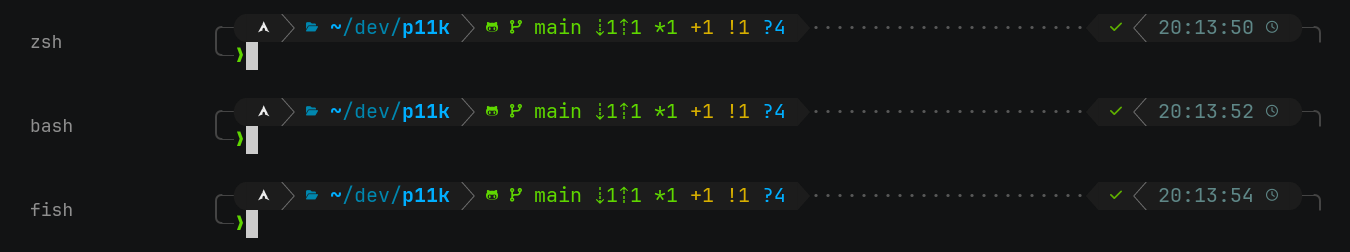
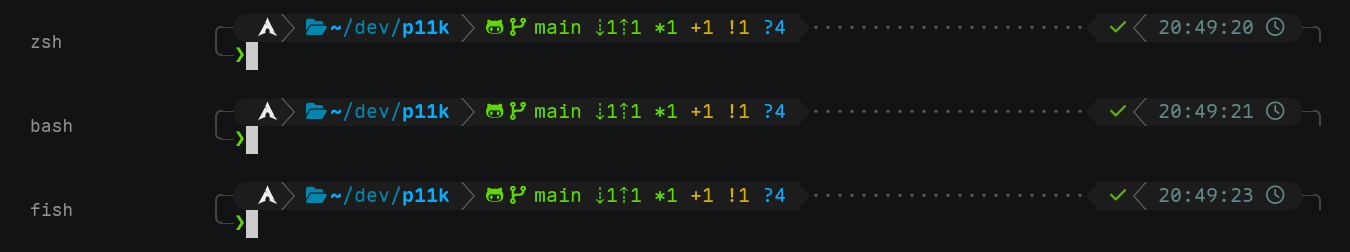
docs: re-record the images with Maple Mono and a passing test run
Three problems with the first recordings, all visible in the images:

- The font was JetBrains Mono NF, which is not what this was recorded on.
  Maple Mono NF it is; the coverage of the glyphs the prompt actually uses
  (⇣ ⇡ ✓ ✘ ❯, the nerd font icons, the box drawing) was checked first.
- The demo ran a failing `cargo test`, which reads as "this project does not
  build" rather than as a prompt demo. The test now passes, and its sleep
  stays: it is what puts the run above the segment's 3s threshold.
- The cold build printed `Compiling ... (/home/<user>/...)` into the
  recording. The demo home moves out of the repository to
  ${TMPDIR:-/tmp}/p11k-demo-home, the build is warmed during setup so the
  run is short, and the scene now runs `cargo test -p p11k-engine` so the
  output is one crate's test summary instead of three.

diff --git a/README.zh.md b/README.zh.md
@@ -4,13 +4,13 @@
 
 用 Rust 重写的 powerlevel10k 提示符引擎。
 
-![p11k 在 zsh 中：git 状态、失败的测试、后台任务、transient prompt](docs/images/demo.gif)
+![p11k 在 zsh 中：git 状态、测试运行、后台任务、transient prompt](docs/images/demo.gif)
 
 一段 zsh 会话，使用 [`tools/demo/demo.kdl`](tools/demo/demo.kdl) 中的主题：
-终端打开时头部已经在屏幕上；`dir` 与 `vcs` 跟随工作区状态；失败的
-`cargo test` 点亮 status 与执行耗时；`sleep 30 &` 点亮后台任务计数；每次提交的
-命令都折叠成单行 `❯`。这些图由
-[`tools/demo/capture.sh`](tools/demo/capture.sh) 录制生成。
+终端打开时头部已经在屏幕上；`dir` 与 `vcs` 跟随工作区状态；`cargo test`
+点亮 status 与执行耗时；`sleep 30 &` 点亮后台任务计数；每次提交的命令都折叠成
+单行 `❯`。这些图由 [`tools/demo/capture.sh`](tools/demo/capture.sh) 录制生成，
+字体为 Maple Mono NF。
 
 p11k 仍在开发中（1.0.0-alpha.1）：功能已完整、日常在用，但尚未定型——配置
 语言仍可能变动。
@@ -228,7 +228,8 @@ export GITSTATUS_DAEMON=/path/to/p11k-d
 会显示的内容。镜头脚本是
 [`tools/demo/scenes/demo.json`](tools/demo/scenes/demo.json)（一串带延时的按键），
 主题是 [`tools/demo/demo.kdl`](tools/demo/demo.kdl)。重新生成需要已构建的
-`p11k`，以及 `zsh`、`bash`、`fish`、`python3`、`tmux`、`agg` 和 ImageMagick。
+`p11k`，以及 `zsh`、`bash`、`fish`、`python3`、`tmux`、`agg`、ImageMagick，
+以及图中使用的 Maple Mono Nerd Font。
 
 ## 参与开发
 

diff --git a/README.md b/README.md
@@ -4,14 +4,14 @@
 
 A prompt engine that continues powerlevel10k, written in Rust.
 
-![p11k in zsh: git status, a failing test, a background job, the transient prompt](docs/images/demo.gif)
+![p11k in zsh: git status, a test run, a background job, the transient prompt](docs/images/demo.gif)
 
 One zsh session with the theme in [`tools/demo/demo.kdl`](tools/demo/demo.kdl):
 the header is on screen the moment the terminal opens, `dir` and `vcs` follow the
-working tree, a failing `cargo test` fills in the status and the execution time,
+working tree, `cargo test` fills in the status and the execution time,
 `sleep 30 &` the background-job count, and every submitted command folds into a
 single `❯` line. The images are recorded by
-[`tools/demo/capture.sh`](tools/demo/capture.sh).
+[`tools/demo/capture.sh`](tools/demo/capture.sh) and set in Maple Mono NF.
 
 p11k is a work in progress (1.0.0-alpha.1): feature-complete and used daily, but
 not settled yet — the config language can still change.
@@ -265,7 +265,8 @@ terminal would have shown. The scene is
 [`tools/demo/scenes/demo.json`](tools/demo/scenes/demo.json) — a list of
 keystrokes with delays, and the theme is
 [`tools/demo/demo.kdl`](tools/demo/demo.kdl). Re-running it needs a built
-`p11k`, `zsh`, `bash`, `fish`, `python3`, `tmux`, `agg` and ImageMagick.
+`p11k`, `zsh`, `bash`, `fish`, `python3`, `tmux`, `agg`, ImageMagick, and the
+Maple Mono Nerd Font the images are set in.
 
 ## Contributing
 
